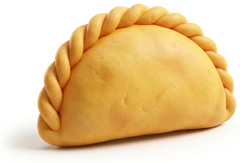
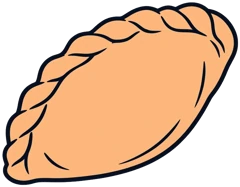
Un solo estilo de ilustración: caricatura plana con borde de tinta
La empanada del widget pasa del 3D suave al estilo de Monedita y las estampas. La guía visual se corrige: nada de 3D ni fotorrealismo.

Claude-Session: https://claude.ai/code/session_01B3dbj7MugnFWmXUsWJGki6

diff --git a/src/components/widgets/GraficaConectada/Bolsillo.tsx b/src/components/widgets/GraficaConectada/Bolsillo.tsx
@@ -19,11 +19,11 @@ interface BolsilloProps {
   reducedMotion: boolean;
 }
 
-/** Empanada en 3D suave, generada con la plantilla de docs/PERSONALIDAD-VISUAL.md. */
+/** Empanada en el estilo de las estampas (docs/PERSONALIDAD-VISUAL.md). */
 const EMPANADA_SRC = '/objetos/empanada.webp';
 
 function Empanada() {
-  return <image href={EMPANADA_SRC} width={32} height={22} preserveAspectRatio="xMidYMid meet" />;
+  return <image href={EMPANADA_SRC} width={32} height={25} preserveAspectRatio="xMidYMid meet" />;
 }
 
 /**
@@ -56,7 +56,7 @@ export default function Bolsillo({ plata, unidades, maxUnidades, sobrante, reduc
 
       <svg
         className="gc-bolsillo__grid"
-        viewBox={`0 0 ${columnas * 34} ${Math.ceil(total / columnas) * 26}`}
+        viewBox={`0 0 ${columnas * 34} ${Math.ceil(total / columnas) * 29}`}
         aria-hidden="true"
       >
         {fichas.map((i) => {
@@ -66,7 +66,7 @@ export default function Bolsillo({ plata, unidades, maxUnidades, sobrante, reduc
           return (
             <motion.g
               key={i}
-              transform={`translate(${col * 34 + 1}, ${fila * 26 + 2})`}
+              transform={`translate(${col * 34 + 1}, ${fila * 29 + 2})`}
               initial={false}
               animate={{ opacity: alAlcance ? 1 : 0.25 }}
               transition={reducedMotion ? { duration: 0 } : { duration: DURATION.element, ease: EASE_OUT_QUART }}

diff --git a/docs/PERSONALIDAD-VISUAL.md b/docs/PERSONALIDAD-VISUAL.md
@@ -8,54 +8,50 @@ para que sean exactos y se puedan tocar.
 
 - **Duolingo:** un personaje que siempre tiene el mismo cuerpo, la misma paleta y la misma manera de
   moverse, y que reacciona a lo que haces. La personalidad está en el personaje, no en los fondos.
-- **Brilliant:** dos registros que nunca se mezclan. Los diagramas son planos, con líneas limpias y
-  un solo color de acento. Los íconos y objetos son 3D suaves y brillantes, sobre fondo claro y sin
-  escenario.
+- **Brilliant:** los diagramas son planos, con líneas limpias y un solo color de acento, y se
+  mueven cuando los tocas.
 
-Bursa usa la misma división en dos registros.
+Bursa toma las dos cosas: un personaje único y diagramas que se tocan.
 
 ## 2. Los dos registros de Bursa
 
 | Registro | Qué es | Cómo se hace |
 |---|---|---|
-| **Diagrama** | Gráficas, líneas de tiempo, canastas, pilas de billetes que cambian | Código (SVG + `tokens.css`), plano, línea `--ink`, un acento por escena |
-| **Personaje y objeto** | Monedita, Bolsito, objetos-ícono (empanada, alcancía, tarjeta) | Generado, 3D suave, con las reglas de abajo |
+| **Diagrama** | Gráficas, líneas de tiempo, ejes, guías punteadas | Código (SVG + `tokens.css`), plano, línea `--ink`, un acento por escena |
+| **Ilustración** | Monedita, Bolsito y los objetos (empanada, alcancía, sobres, tarjeta) | Caricatura plana con borde de tinta; se genera a partir de una ilustración existente |
 
-## 3. Reglas del registro generado
+Nunca se mezclan un tercer y un cuarto estilo. Nada fotorrealista, nada de vidrio y nada de 3D:
+Monedita es plana, así que todo lo que la rodea también lo es. (El 25 de septiembre se probó una
+empanada en 3D suave y se descartó por eso.)
 
-1. **Monedita es la protagonista.** Moneda dorada con el símbolo de Bursa en relieve, ojos grandes,
-   brazos cortos. Nunca lleva ₿, $ ni el logo de otra marca.
-2. **Material:** 3D suave, tipo arcilla pulida, sin texturas realistas. Bordes redondeados.
-3. **Luz:** una luz cálida desde arriba a la izquierda y un brillo dorado suave alrededor. Sin
-   sombras duras.
-4. **Fondo:** blanco o papel liso (`--paper`), sin escenario. Así se integra con `mix-blend-mode:
-   multiply` sobre cualquier superficie de la app.
-5. **Paleta:** dorado de Monedita, naranja de marca y tinta. Otros colores solo si son del objeto
-   (la empanada es dorada, la tarjeta es tinta).
-6. **Actitud:** tranquila y curiosa. Monedita explica, señala, celebra con un salto corto o piensa
+## 3. Reglas de la ilustración
+
+1. **Monedita es la protagonista.** Es una moneda naranja de marca con borde de tinta grueso, ojos
+   grandes con brillo, sonrisa pequeña, el símbolo de Bursa (la onda) en el cuerpo, brazos y
+   piernas cortos. Nunca lleva ₿, $ ni el logo de otra marca.
+2. **Trazo:** borde oscuro (`--ink`) grueso y constante, y esquinas redondeadas.
+3. **Relleno:** plano, sin degradados, a lo sumo una sombra interior plana. La paleta es de
+   durazno, naranja de marca, crema y dorado para las monedas.
+4. **Fondo:** blanco o papel liso, sin escenario. Se integra con `mix-blend-mode: multiply` o con
+   el fondo recortado.
+5. **Actitud:** tranquila y curiosa. Monedita explica, señala, celebra con un salto corto o piensa
    con la mano en la barbilla. Nunca corre, no tiene prisa y no asusta.
-7. **Movimiento en video:** un solo gesto por clip, cámara fija, de 3 a 5 segundos. Se reproduce una
+6. **Movimiento en video:** un solo gesto por clip, cámara fija, de 3 a 5 segundos. Se reproduce una
    vez y se queda quieta en el último cuadro. Con movimiento reducido se muestra el cuadro final.
-8. **Encuadre:** el personaje ocupa el 70 % del cuadro, centrado. Nada de texto en la imagen.
+7. **Encuadre:** el sujeto ocupa del 60 al 70 % del cuadro, centrado. Nada de texto en la imagen.
+8. **Nada dibujado a mano en código.** Un objeto (empanada, billete) siempre sale de una
+   ilustración, no de un `<path>` improvisado.
 
-## 4. Plantilla de prompt
+## 4. Cómo se genera
 
-Siempre se sube la imagen de referencia (`public/monedita/monedita.webp`) y se usa este texto base.
-Solo cambia la acción.
-
-```
-Soft 3D clay-like character: a friendly golden coin mascot with large eyes and short arms,
-an embossed abstract symbol on its face (no letters, no currency signs). Warm key light from
-top left, soft golden glow, no hard shadows. Plain pure white background, no scenery, no text.
-Centered, character fills 70% of frame. Static camera.
-Action: {UNA SOLA ACCIÓN, CALMADA, 3–5 s}.
-```
-
-Objetos-ícono (sin personaje):
+Siempre se sube como referencia una ilustración existente del mismo estilo
+(`public/illustrations/*-v2.webp` o `public/monedita/monedita.webp`), con Nano Banana 2
+(1,5 créditos) y este texto:
 
 ```
-Soft 3D clay-like icon of {OBJETO}, rounded edges, warm key light from top left, soft shadow
-under the object, plain pure white background, no text, centered, fills 60% of frame.
+Redraw {OBJETO / ACCIÓN} in exactly the same flat cartoon illustration style as the reference:
+thick dark ink outline, flat warm fills, no gradients, no 3D, no photorealism.
+Plain pure white background, no text, centered, fills 65% of frame.
 ```
 
 ## 5. Presupuesto
